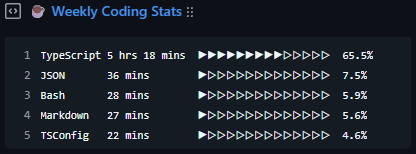
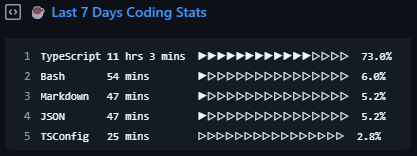
Added time_range option

diff --git a/src/index.ts b/src/index.ts
@@ -1,20 +1,53 @@
 import 'dotenv/config';
-import axios, { AxiosResponse } from 'axios';
+import axios from 'axios';
 
-// Interfaces
+// Types
+type TimeRange = 'yesterday' | 'last_7_days' | 'last_30_days' | 'last_year';
+
 interface Language {
 	name: string;
 	total_seconds: number;
 }
+
 interface WakaTimeStats {
 	languages: Language[];
 }
+
 interface WakaTimeResponse {
 	data: WakaTimeStats;
 }
+
+interface SummaryResponse {
+	data: Array<{
+		languages: Language[];
+	}>;
+}
+
 interface GistResponse {
 	files: Record<string, { filename: string; content: string }>;
 }
+
+// Configuration
+const WAKATIME_CONFIG = {
+	baseUrl: 'https://wakatime.com/api/v1/users/current',
+	endpoints: {
+		stats: (range: TimeRange) => `${WAKATIME_CONFIG.baseUrl}/stats/${range}`,
+		summaries: (range: string) => `${WAKATIME_CONFIG.baseUrl}/summaries?range=${range}`
+	}
+} as const;
+
+const PROGRESS_STYLES = {
+	arrow: { filled: '▶', empty: '▷', blocks: 16 },
+	hash: { filled: '#', empty: '-', blocks: 25 },
+	default: { filled: '▰', empty: '▱', blocks: 14 }
+} as const;
+
+const GIST_TITLES: Record<TimeRange, string> = {
+	yesterday: '☕ Yesterday Coding Stats',
+	last_7_days: '☕ Last 7 Days Coding Stats',
+	last_30_days: '☕ Last 30 Days Coding Stats',
+	last_year: '☕ Last Year Coding Stats'
+} as const;
 
 // Utility for logging
 const log = {
@@ -22,70 +55,28 @@ const log = {
 	error: (msg: string) => console.error(`❌ ${msg}`)
 };
 
-// Fetch WakaTime stats
-const fetchWakaTimeStats = async (): Promise<WakaTimeStats | null> => {
-	try {
-		const { data }: AxiosResponse<WakaTimeResponse> = await axios.get('https://wakatime.com/api/v1/users/current/stats/last_7_days', {
-			headers: { Authorization: `Basic ${process.env.WAKATIME_TOKEN}` }
-		});
-		return data.data;
-	} catch (error) {
-		log.error(`Failed to fetch WakaTime stats: ${error instanceof Error ? error.message : 'Unknown error'}`);
-		return null;
-	}
-};
+// Get WakaTime API endpoint based on time range
+const getWakaTimeEndpoint = (range: TimeRange) => (range === 'yesterday' ? WAKATIME_CONFIG.endpoints.summaries('yesterday') : WAKATIME_CONFIG.endpoints.stats(range));
 
-// Fetch gist filename
-const fetchGistFilename = async (): Promise<string> => {
-	try {
-		const { data }: AxiosResponse<GistResponse> = await axios.get(`https://api.github.com/gists/${process.env.GIST_ID}`, {
-			headers: { Accept: 'application/vnd.github+json', Authorization: `Bearer ${process.env.GH_TOKEN}` }
-		});
-		const filename = Object.keys(data.files)[0];
-		if (!filename) throw new Error('No files found in the gist');
-		return filename;
-	} catch (error) {
-		const message = error instanceof Error ? error.message : 'Unknown error';
-		log.error(`Failed to fetch gist filename: ${message}`);
-		throw new Error(message);
-	}
-};
+// Get gist title based on time range
+const getGistTitle = (range: TimeRange) => GIST_TITLES[range] || GIST_TITLES.last_7_days;
 
-// Format duration (seconds to "X hrs Y mins")
-const formatDuration = (seconds: number): string => {
+// Format duration
+const formatDuration = (seconds: number) => {
 	const hours = Math.floor(seconds / 3600);
 	const minutes = Math.floor((seconds % 3600) / 60);
 	return `${hours ? `${hours} hrs ` : ''}${minutes ? `${minutes} mins` : ''}`.trim() || '0 mins';
 };
 
 // Create progress bar with different styles
-const createProgressBar = (percentage: number): string => {
-	const blocks = 14;
-	const filled = Math.round((percentage / 100) * blocks);
-	const progressStyle = process.env.PROGRESS_STYLE || 'default';
-
-	let filledChar: string, emptyChar: string;
-	switch (progressStyle.toLowerCase()) {
-		case 'arrow':
-			filledChar = '▶';
-			emptyChar = '▷';
-			break;
-		case 'hash':
-			filledChar = '#';
-			emptyChar = '-';
-			break;
-		case 'default':
-		default:
-			filledChar = '▰';
-			emptyChar = '▱';
-			break;
-	}
-
-	return filledChar.repeat(filled) + emptyChar.repeat(blocks - filled);
+const createProgressBar = (percentage: number) => {
+	const style = PROGRESS_STYLES[(process.env.PROGRESS_STYLE?.toLowerCase() as keyof typeof PROGRESS_STYLES) || 'default'];
+	const filled = Math.round((percentage / 100) * style.blocks);
+	return style.filled.repeat(filled) + style.empty.repeat(style.blocks - filled);
 };
 
 // Format stats for gist
-const formatStats = (stats: WakaTimeStats): string =>
+const formatStats = (stats: WakaTimeStats) =>
 	stats.languages
 		.slice(0, 5)
 		.map((lang) => {
@@ -94,8 +85,68 @@ const formatStats = (stats: WakaTimeStats): string =>
 		})
 		.join('\n');
 
+// Fetch WakaTime stats
+const fetchWakaTimeStats = async () => {
+	try {
+		const timeRange: TimeRange = (process.env.TIME_RANGE as TimeRange) || 'last_7_days';
+		const endpoint = getWakaTimeEndpoint(timeRange);
+
+		const { data } = await axios.get<WakaTimeResponse | SummaryResponse>(endpoint, {
+			headers: { Authorization: `Basic ${process.env.WAKATIME_TOKEN}` }
+		});
+
+		if (timeRange === 'yesterday') {
+			const summaryData = data as SummaryResponse;
+			return {
+				languages: summaryData.data[0]?.languages || []
+			};
+		}
+
+		return (data as WakaTimeResponse).data;
+	} catch (error) {
+		console.log({ error });
+		log.error(`Failed to fetch WakaTime stats: ${error instanceof Error ? error.message : 'Unknown error'}`);
+		return null;
+	}
+};
+
+// Fetch and update gist filename
+const fetchGistFilename = async () => {
+	try {
+		const { data } = await axios.get<GistResponse>(`https://api.github.com/gists/${process.env.GIST_ID}`, {
+			headers: { Accept: 'application/vnd.github+json', Authorization: `Bearer ${process.env.GH_TOKEN}` }
+		});
+
+		const timeRange: TimeRange = (process.env.TIME_RANGE as TimeRange) || 'last_7_days';
+		const newFilename = getGistTitle(timeRange);
+
+		const oldFilename = Object.keys(data.files)[0];
+		if (!oldFilename) throw new Error('No files found in the gist');
+
+		if (oldFilename !== newFilename) {
+			await axios.patch(
+				`https://api.github.com/gists/${process.env.GIST_ID}`,
+				{
+					files: {
+						[oldFilename]: { filename: newFilename, content: data.files[oldFilename].content }
+					}
+				},
+				{
+					headers: { Accept: 'application/vnd.github+json', Authorization: `Bearer ${process.env.GH_TOKEN}` }
+				}
+			);
+		}
+
+		return newFilename;
+	} catch (error) {
+		const message = error instanceof Error ? error.message : 'Unknown error';
+		log.error(`Failed to fetch/update gist filename: ${message}`);
+		throw new Error(message);
+	}
+};
+
 // Update gist
-const updateGist = async (stats: WakaTimeStats | null, filename: string): Promise<void> => {
+const updateGist = async (stats: WakaTimeStats | null, filename: string) => {
 	const content = stats ? formatStats(stats) : 'No WakaTime stats available';
 
 	try {
@@ -111,7 +162,7 @@ const updateGist = async (stats: WakaTimeStats | null, filename: string): Promis
 };
 
 // Main execution
-const main = async (): Promise<void> => {
+const main = async () => {
 	try {
 		log.info('Fetching WakaTime stats and gist filename...');
 		const [stats, filename] = await Promise.all([fetchWakaTimeStats(), fetchGistFilename()]);

diff --git a/README.md b/README.md
@@ -9,7 +9,7 @@ Display your WakaTime coding stats as a GitHub Gist on your profile.
 1. **Create a Public Gist**
 
     - Go to https://gist.github.com/
-    - Create a new gist with any filename you want (e.g. "☕ Weekly Coding Stats")
+    - Create a new gist with random filename
 
 2. **Generate GitHub Token**
 
@@ -34,7 +34,8 @@ Display your WakaTime coding stats as a GitHub Gist on your profile.
     WAKATIME_TOKEN=your_wakatime_token
     GIST_ID=your_gist_id
     GH_TOKEN=your_github_token
-    PROGRESS_STYLE=default
+    TIME_RANGE= # 'yesterday' | 'last_7_days' | 'last_30_days' | 'last_year'
+    PROGRESS_STYLE= # 'default' | 'arrow' | 'hash'
     ```
 
 6. **Run the Workflow (First Time Only)**
